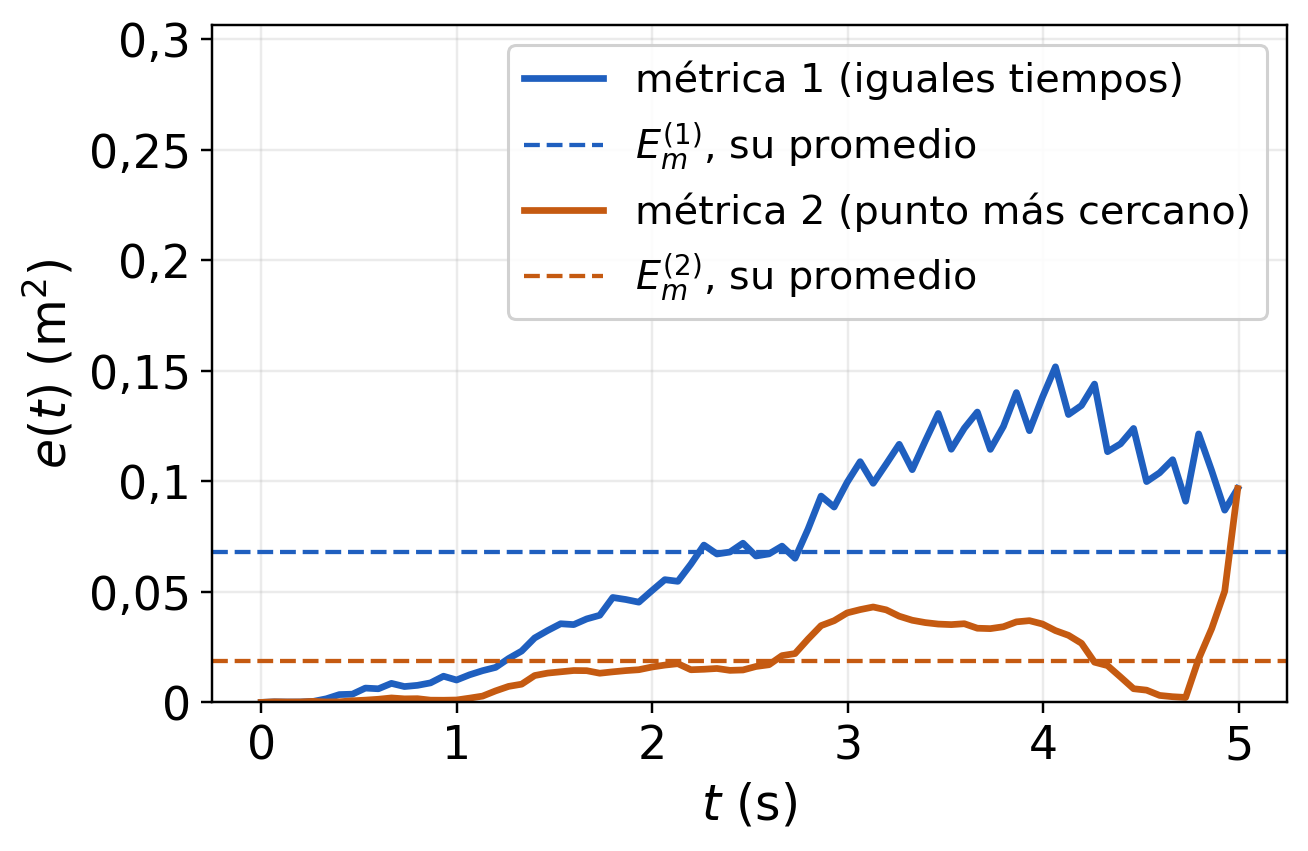
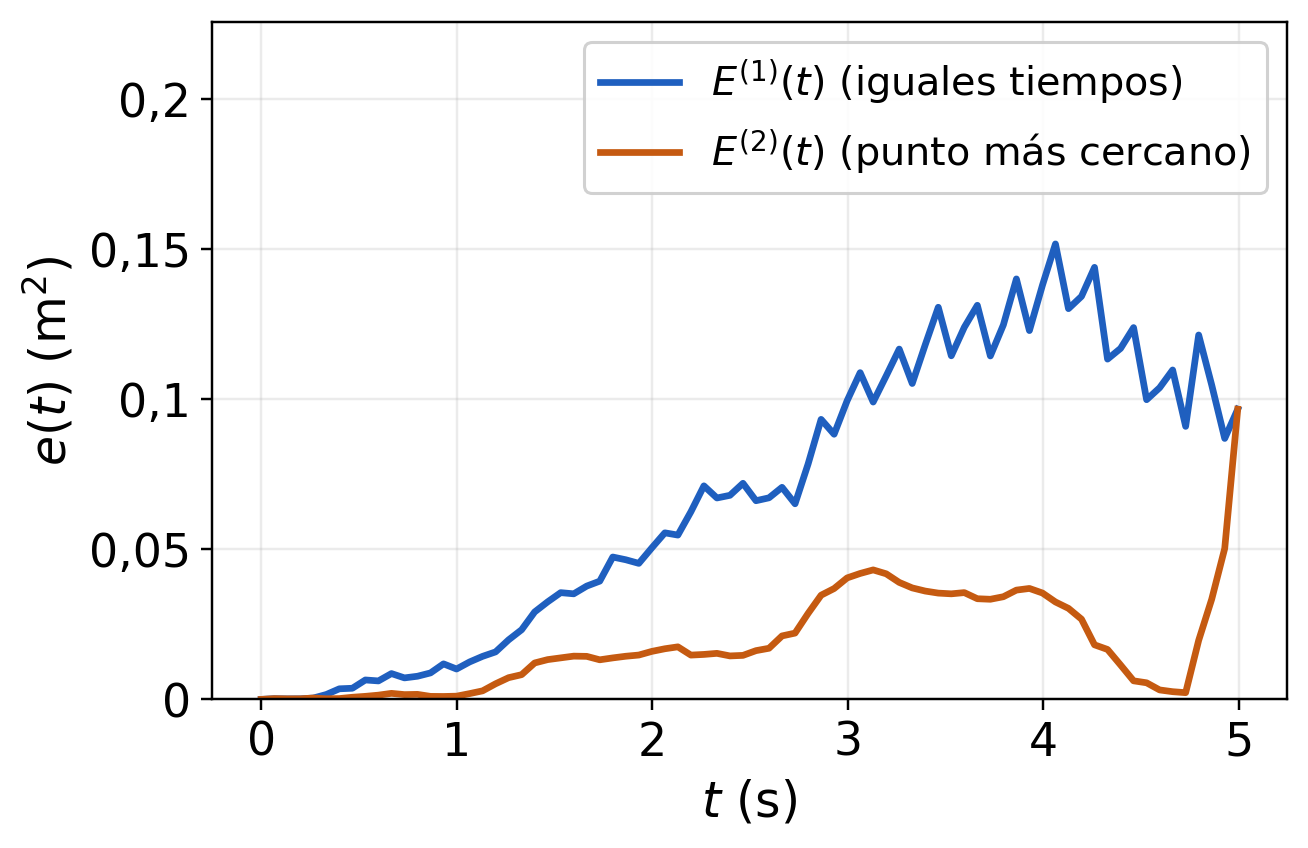
Observable primario sin las horizontales del promedio y con E^(1)(t) y E^(2)(t) en la leyenda; links de YouTube del evento 10

diff --git a/report/presentacion.tex b/report/presentacion.tex
@@ -551,7 +551,7 @@
                   la métrica 1.
             \cond{$t_a = 0$ (capa apagada); congelada justo antes del choque simulado, $t = \SI{3.13}{\second}$. Disco lleno: simulado; punteado: medido}}
     }
-    \begin{center}\video{https://youtu.be/PENDIENTE-02}\end{center}
+    \begin{center}\video{https://youtu.be/OT4GK1bgh6Q}\end{center}
 \end{frame}
 
 \begin{frame}{Evento 10 con la capa calibrada}
@@ -569,7 +569,7 @@
                   contacto en ninguno} de los 19 eventos.
             \cond{$t_a = \SI{2.15}{\second}$, $d_s = \SI{0.13}{\meter}$; congelada en el último instante en conflicto antes del cruce simulado, $t = \SI{2.40}{\second}$}}
     }
-    \begin{center}\video{https://youtu.be/PENDIENTE-01}\end{center}
+    \begin{center}\video{https://youtu.be/REX90cEIJEk}\end{center}
 \end{frame}
 
 \begin{frame}{Trayectorias: el mejor ajuste, el peor y uno sin capa}
@@ -593,7 +593,7 @@
     \figbulw[0.5em]{slide-20-evento10-observable.png}{%
         \item $e(t)$ promediado sobre los 2 peatones del evento, para las dos
               métricas. El \textbf{escalar} de cada una es el promedio temporal
-              de su curva: las horizontales punteadas.
+              de su curva.
         \item La métrica 1 mira también el \textbf{tiempo de paso}: el agente
               camina a $v^d$ constante y la persona acelera y frena. La
               métrica 2 mira sólo la forma y queda siempre por debajo.

diff --git a/visualization/trajectory.py b/visualization/trajectory.py
@@ -81,13 +81,12 @@ def primary(run: Path, figures, style: str, name: str):
             curves.append(same if metric == 1 else closest)
         curve = np.nanmean(np.vstack(curves), axis=0)
         scalars[metric] = float(np.nanmean(curve))
-        axes.plot(time, curve, color=color, label=common.METRIC_LABEL[metric])
-        axes.axhline(scalars[metric], color=color, linestyle="--", linewidth=1.4,
-                     label=f"$E^{{({metric})}}_m$, su promedio")
+        detail = common.METRIC_LABEL[metric].split(" ", 2)[2]
+        axes.plot(time, curve, color=color, label=f"$E^{{({metric})}}(t)$ {detail}")
     axes.set_xlabel(common.AXIS_TIME)
     axes.set_ylabel("$e(t)$ (m$^2$)")
     axes.set_ylim(0.0, None)
-    common.legend_inside(axes, ncol=2)
+    common.legend_inside(axes)
     common.save(figure, common.folder("a", figures) / f"{name}_observable_{style}.png")
     plt.close(figure)
     return scalars
